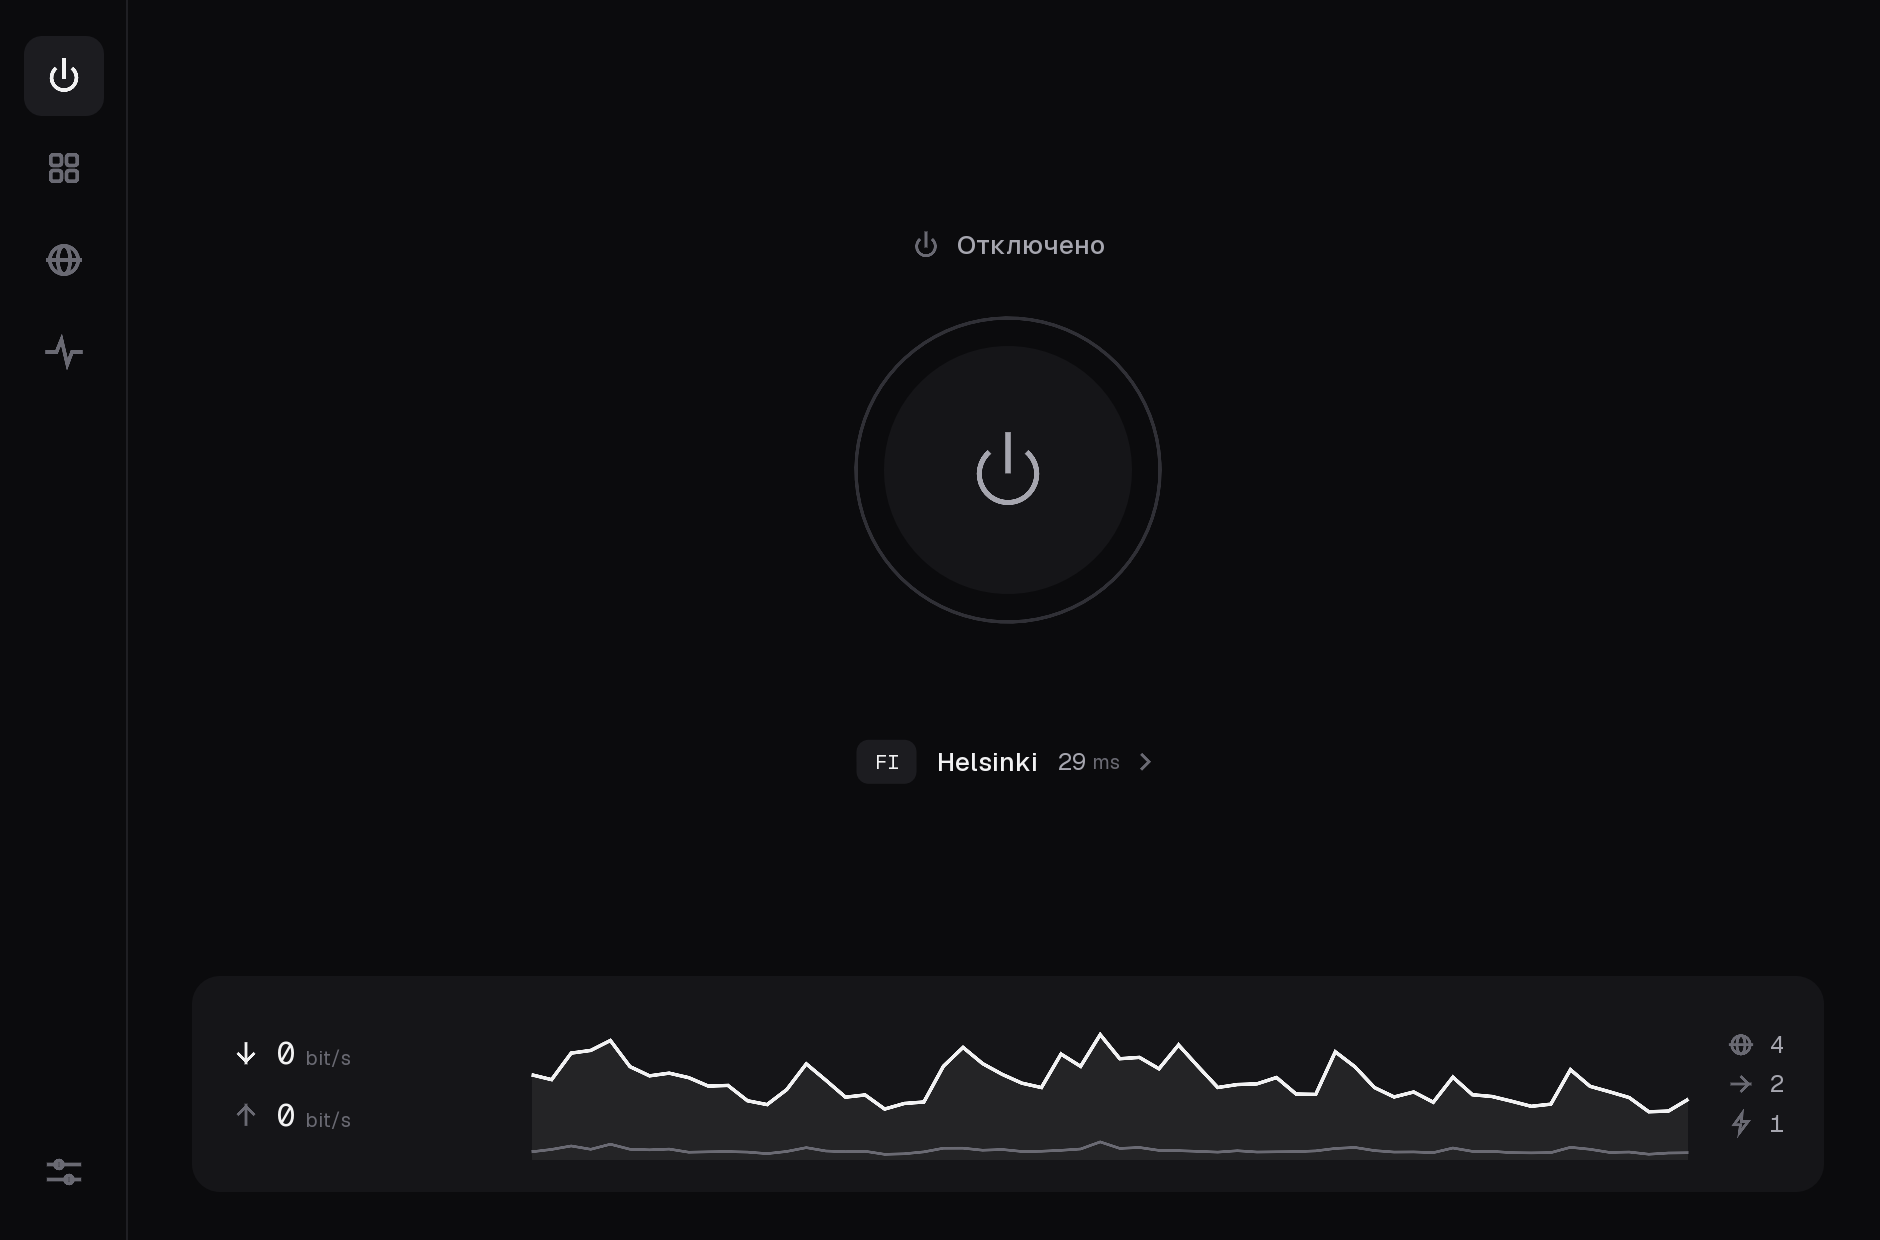
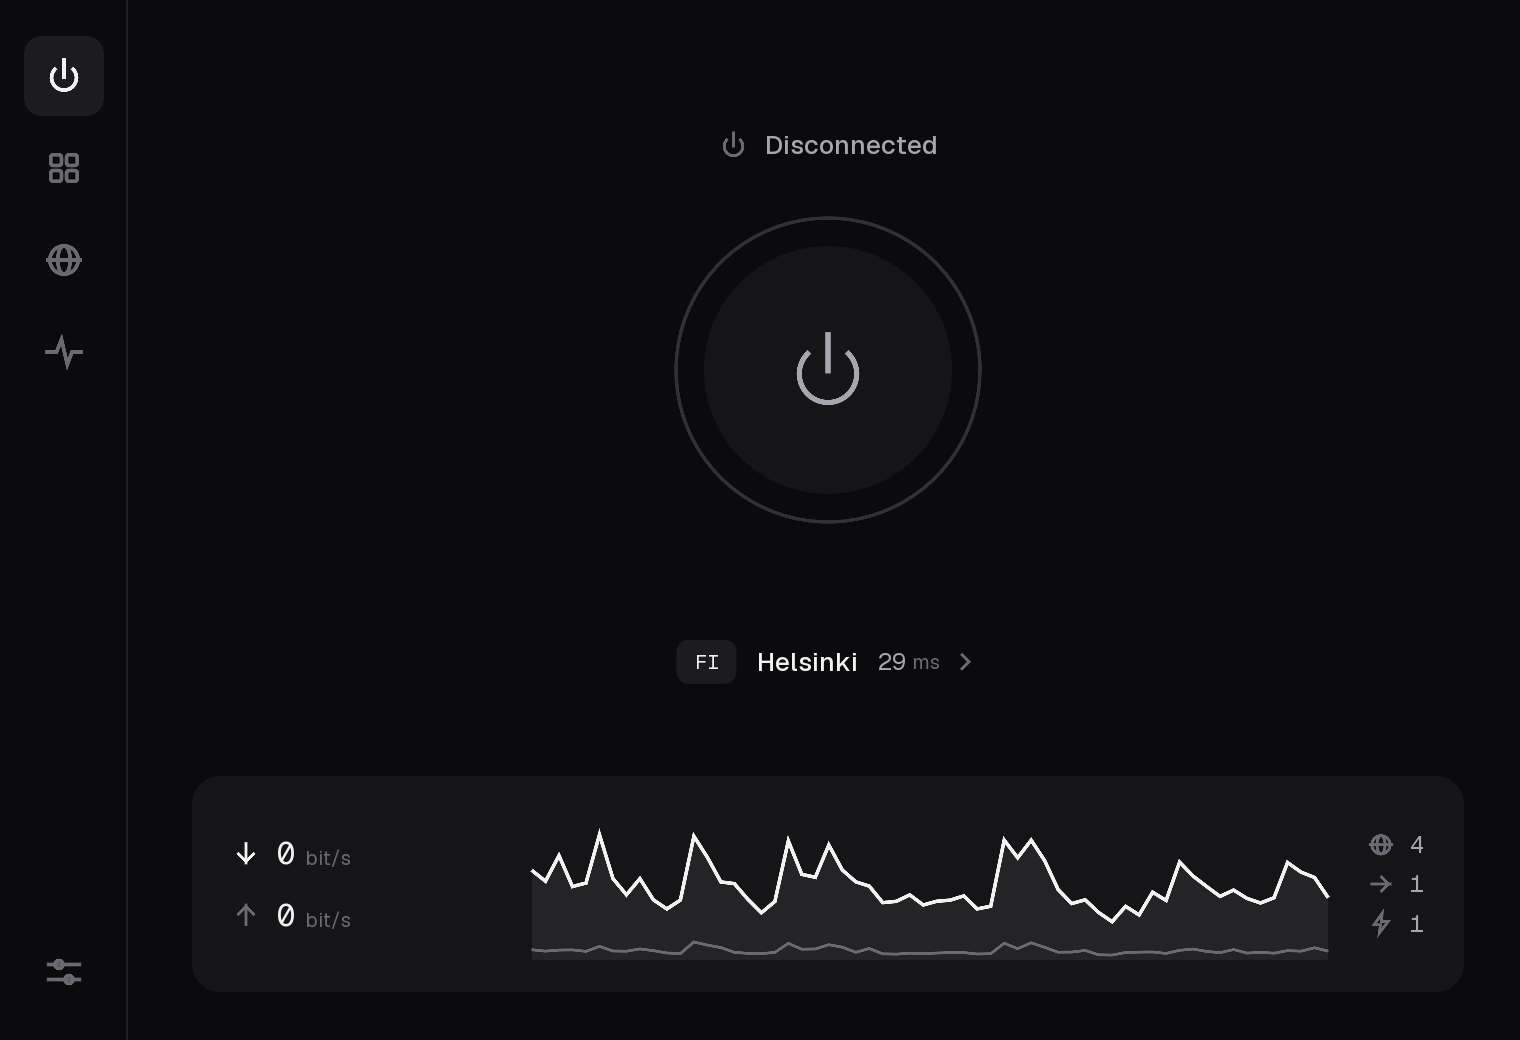
Add a README, and English screenshots on sample data

diff --git a/README.md b/README.md
@@ -1,0 +1,361 @@
+<h1 align="center">BLACKWALL</h1>
+
+<p align="center">
+  A small, fast VPN client that routes every application its own way.<br>
+  Written in Zig. No Electron, no bundled proxy core, no telemetry.
+</p>
+
+<p align="center">
+  <img alt="License: MIT" src="https://img.shields.io/badge/license-MIT-blue">
+  <img alt="Zig 0.17.1" src="https://img.shields.io/badge/zig-0.17.1-f7a41d">
+  <img alt="Platforms" src="https://img.shields.io/badge/platforms-macOS%20%C2%B7%20Windows%20%C2%B7%20Linux-lightgrey">
+  <img alt="Languages" src="https://img.shields.io/badge/interface-English%20%C2%B7%20%D0%A0%D1%83%D1%81%D1%81%D0%BA%D0%B8%D0%B9%20%C2%B7%20%E4%B8%AD%E6%96%87-lightgrey">
+</p>
+
+<p align="center">
+  <img src="docs/screens/2-connect-on.png" width="760" alt="BLACKWALL connected: state, server, live traffic">
+</p>
+
+BLACKWALL is a client for the servers you already have: paste a subscription link or a
+single key, and it carries your traffic over VLESS, Trojan, Shadowsocks or VMess. What
+sets it apart is where the decisions are made. Every application gets its own route
+(through the VPN, through one particular server, straight to the internet, or nowhere),
+and the protection around those routes is built so that an application you sent through
+the VPN never quietly falls back to your real address.
+
+It is one codebase with its own data plane: the TCP/IP stack, the TLS 1.3 and REALITY
+handshakes, HTTP/2 and every protocol are implemented in this repository, in Zig. A
+release is a single file of 4 to 11 MB.
+
+> **You bring the servers.** BLACKWALL is a client. It does not sell, provide or
+> recommend VPN servers, and it has no account, no backend and no analytics.
+
+## Contents
+
+- [Features](#features)
+- [Platform support](#platform-support)
+- [Protocols and transports](#protocols-and-transports)
+- [Install](#install)
+- [Getting started](#getting-started)
+- [Routes](#routes)
+- [Protection](#protection)
+- [How it works](#how-it-works)
+- [Security model](#security-model)
+- [Build from source](#build-from-source)
+- [Testing](#testing)
+- [Project layout](#project-layout)
+- [Known limitations](#known-limitations)
+- [Roadmap](#roadmap)
+- [Contributing](#contributing)
+- [License](#license)
+
+## Features
+
+**Routing**
+
+- A route per application: VPN, a pinned server, direct, or blocked. All of them work at
+  the same time.
+- Programs an application starts follow its rule: a shell, `git` or `curl` launched by an
+  app is routed like that app unless it has a rule of its own.
+- A default route for everything without a rule.
+- Live traffic per application, and a history graph.
+
+**Servers**
+
+- Subscriptions by link, or keys pasted one by one. Several subscriptions at once.
+- Latency for every server; "Fastest" picks one for you.
+- Reserve servers: star the ones you trust. When the server in use stops carrying
+  traffic, BLACKWALL reconnects to it once, then moves to the starred ones, fastest first,
+  checking each with a real request. It moves back when the main server answers again.
+
+**Protection**
+
+- Kill switch, selective or strict.
+- Protection after Disconnect: applications with a VPN rule of their own stay offline
+  while the VPN is off.
+- Hold from boot (macOS): traffic is held from the moment the system starts until the
+  VPN is up, so applications that launch at login cannot get out first.
+- Detection of another VPN that stands in the way, with a way to stop it.
+
+**Everyday use**
+
+- A background service carries the traffic. Close the window and nothing changes.
+- A menu bar / tray item with the state, the server, the current speed and the two or
+  three actions you need.
+- Signed automatic updates. Settings, subscriptions and rules are kept.
+- English, Russian and Chinese.
+
+<p align="center">
+  <img src="docs/screens/4-apps-route-menu.png" width="49%" alt="Per-application routes">
+  <img src="docs/screens/5-servers.png" width="49%" alt="Servers with latency and reserve stars">
+</p>
+
+## Platform support
+
+| | macOS (Apple Silicon) | Windows (x64) | Linux (x64) |
+|---|---|---|---|
+| Capture all traffic (TUN) | Yes | Not yet | Service only, manual setup |
+| Routes per application | Yes | Not yet | Not yet |
+| Local SOCKS5 proxy (`127.0.0.1:1080`) | Yes | Yes | Yes |
+| Kill switch, protection after Disconnect, hold from boot | Yes | No | No |
+| Menu bar / tray item | Yes | Built, untested | Built, untested |
+| Automatic updates | Yes | Yes | Yes |
+
+macOS is the platform used and tested every day. The Windows and Linux builds pass the
+automatic tests on their own systems in CI, and have not been through real use yet.
+Android is planned.
+
+## Protocols and transports
+
+| Protocol | Security | Transports |
+|---|---|---|
+| VLESS | REALITY (with Vision), TLS, none | TCP, WebSocket, HTTPUpgrade, gRPC, XHTTP |
+| Trojan | TLS, REALITY | TCP, WebSocket, HTTPUpgrade, gRPC, XHTTP |
+| VMess (AEAD) | TLS, REALITY, none | TCP, WebSocket, HTTPUpgrade, gRPC, XHTTP |
+| Shadowsocks | AEAD (AES-GCM, ChaCha20) and 2022 (BLAKE3) | TCP |
+
+Every combination above is checked against a real [Xray](https://github.com/XTLS/Xray-core)
+server: a download, an upload and a small request per link. Link formats understood:
+`vless://`, `trojan://`, `ss://`, `vmess://` (both the base64 JSON and the URL form), and
+Xray JSON subscriptions.
+
+The TLS ClientHello follows Chrome's, the WebSocket and HTTPUpgrade requests match Xray's
+byte for byte, and server certificates are always verified.
+
+## Install
+
+Download the file for your system from the [releases](../../releases) page. Each release
+comes in three languages; pick the one you read.
+
+| System | File |
+|---|---|
+| macOS (Apple Silicon) | `BLACKWALL-<version>-<lang>-macos-arm64.zip` |
+| Windows (x64) | `BLACKWALL-<version>-<lang>-windows-x86_64.exe` |
+| Linux (x64) | `BLACKWALL-<version>-<lang>-linux-x86_64.tar.gz` |
+
+The builds are not signed by Apple or Microsoft yet:
+
+- **macOS**: right-click the app, choose Open. The first connection in TUN mode asks for
+  the administrator password once, to install the network helper.
+- **Windows**: SmartScreen, More info, Run anyway.
+
+Every release file has a `.sig` next to it, an Ed25519 signature the updater checks
+before it installs anything. See [docs/updates.md](docs/updates.md).
+
+## Getting started
+
+1. Open **Servers**, press **+**, and paste a subscription link or a key.
+2. Go back and press the power button.
+3. Open **Apps** to give an application its own route.
+4. Star a few servers you trust. They become the reserve.
+
+Explanations of every option live in **Settings**. The main screens stay free of text on
+purpose.
+
+## Routes
+
+| Route | Where the application's traffic goes |
+|---|---|
+| Default | Wherever "Default route" in Settings says: the VPN or direct |
+| Auto | Through the VPN, on the main server (or its reserve) |
+| A server from the list | Through that server and no other. If it cannot be used, the application is blocked, never sent direct |
+| Direct | The normal internet, with your real address |
+| Block | No network |
+
+A route that goes through the VPN has exactly two fallbacks: another VPN server from the
+reserve, or no connection. There is no path from a VPN route to a direct connection.
+
+## Protection
+
+**Kill switch.** *Selective* stops the applications that are routed through the VPN when
+it drops; direct ones keep working. *Strict* stops everything except the connections to
+the VPN servers themselves, using the system firewall (pf).
+
+**Protection after Disconnect.** Turning the VPN off is not the same as lifting the
+protection. Applications with their own VPN rule, and blocked ones, stay offline while the
+VPN is off; everything else uses the normal internet.
+
+**Hold from boot.** With "Launch at login" on, the network helper captures all traffic as
+soon as the system has a network and holds it until the service takes over. If no
+service comes within two minutes of a login, it lets go, so a broken installation cannot
+leave the machine offline.
+
+**Reserve.** Recovery is driven by failures, not by polling: nothing runs while the server
+works. When connections start failing, the address is looked up again and one real request
+is sent through the same server. If that fails, the starred servers that accept a
+connection are tried fastest first, each with a real request.
+
+## How it works
+
+```mermaid
+flowchart LR
+    apps["Applications"] -->|all traffic| tun["utun device"]
+    subgraph service["blackwall-service (your user)"]
+        tun --> stack["TCP/IP stack<br>fake-IP DNS"]
+        stack --> who["Which application?"]
+        who --> route{"Route"}
+        route -->|VPN| out["VLESS / Trojan / VMess / Shadowsocks<br>TLS 1.3, REALITY, WS, gRPC, XHTTP"]
+        route -->|direct| direct["Physical interface"]
+        route -->|block| drop["Refused"]
+    end
+    out --> server["Your server"]
+    helper["blackwall-helper (root)<br>utun, routes, DNS, firewall"] -. hands over the utun .-> service
+    window["BLACKWALL window<br>and menu bar item"] <-->|JSON lines over a Unix socket| service
+```
+
+Three processes, each with one job:
+
+- **The window** shows the state and edits the configuration. It carries no traffic and
+  can be closed.
+- **The service** runs as your user and is the whole data plane: a TCP/IP stack in user
+  space that terminates every connection the system sends into the tunnel, finds the
+  application behind it, picks its route and carries it.
+- **The helper** (macOS) is a small root daemon that does only what needs root: it creates
+  the tunnel device, sets the routes and the DNS, holds the firewall rules of the strict
+  kill switch, and hands the device to the service. If the service dies, the helper keeps
+  the traffic captured instead of letting it leak.
+
+A few details worth knowing:
+
+- **Fake-IP DNS.** Name lookups are answered with addresses from `198.18.0.0/15`, so each
+  connection arrives with its domain name and the server resolves it. Your resolver does
+  not see where proxied applications go.
+- **Application identity.** A connection is matched to a process through the kernel's
+  socket tables, and the process to the outermost `.app` bundle that contains it. When a
+  process has no rule, the applications that started it are asked, nearest first.
+- **No external core.** There is no Xray, sing-box or OpenSSL inside. The protocol code
+  is a few thousand lines per protocol, allocates almost nothing per connection, and is
+  tested against the reference servers.
+
+## Security model
+
+- **Least privilege.** Only the helper runs as root, and it runs no shell and no command
+  the caller chooses. Every value it receives is validated before it reaches an `ioctl`,
+  a route message or a command line. It serves one user: the one who installed it.
+- **Stopping another VPN** is done only for a process whose identity (pid, start time,
+  executable) was re-checked at the moment of stopping, and never for a system process.
+- **Updates are signed.** The updater installs a file only when its Ed25519 signature
+  matches the public key built into the running app, and only when the unpacked app really
+  is the expected, newer version. The helper accepts a newer helper on the same terms, so
+  the administrator password is asked once per installation.
+- **Fail closed.** A VPN route whose server is gone, unknown or unsupported is blocked. A
+  connection whose application cannot be identified is refused while protected
+  applications are being held.
+- **Secrets stay local.** Subscription links and keys are stored in the configuration file
+  in your user folder and are never logged.
+
+Found a security problem? Please report it privately to the maintainers rather than in a
+public issue.
+
+## Build from source
+
+You need [Zig 0.17.1](https://ziglang.org/download/). Everything else is fetched by the
+build.
+
+```sh
+zig build                 # the app, the service and the tools, into zig-out/
+zig build run             # build and start the window
+zig build test            # all tests
+zig build package -Doptimize=ReleaseSafe -Dlang=en    # a release file in zig-out/package
+```
+
+| Option | Meaning |
+|---|---|
+| `-Dlang=en\|ru\|zh` | Interface language (one build per language; default `ru`) |
+| `-Dtarget=...` | Cross-compile, for example `x86_64-windows` or `x86_64-linux-gnu` |
+| `-Doptimize=ReleaseSafe` | Release build |
+| `-Dupdate-repo=owner/name` `-Dupdate-pubkey=<base64>` | Build with the updater (release CI does this) |
+
+On macOS, `zig build package` produces `zig-out/BLACKWALL.app` with the service and the
+helper inside, ad-hoc signed.
+
+Releases are built by GitHub Actions from a `v<version>` tag; see
+[docs/updates.md](docs/updates.md) for the signing key and the release steps.
+
+## Testing
+
+```sh
+zig build test
+```
+
+The suite covers the protocol code against recorded and scripted peers, the TCP/IP stack,
+the routing table, the recovery logic and the release tooling, and runs on macOS, Linux and
+Windows in CI.
+
+Two tools help when working on the data plane:
+
+```sh
+# a local SOCKS5 proxy through one server, with counters
+zig-out/bin/blackwall-proxy 1080 'vless://...'
+
+# does this server accept a connection, and does a real request get through?
+zig-out/bin/blackwall-proxy check 'vless://...'
+```
+
+To render every screen to PNG without touching your configuration (sample data):
+
+```sh
+HOME=$(mktemp -d) BLACKWALL_SHOTS=out zig-out/bin/blackwall
+```
+
+## Project layout
+
+```
+src/
+  main.zig, app.zig        the window: frame loop and application state
+  link.zig                 the window's side of the background service
+  ui/                      screens, widgets, theme
+  platform/                autostart, tray, detection of other VPNs
+  core/                    everything that is not the window
+    proxy.zig              outbounds, dialing, one flow from end to end
+    tunnel.zig             the TUN data plane: flows, routes, UDP
+    ipstack/               TCP/IP stack, packets, DNS and fake addresses
+    tls13.zig, vision.zig  TLS 1.3, REALITY, Vision
+    ws.zig, httpupgrade.zig, grpc.zig, xhttp.zig, h2.zig, hpack.zig
+    trojan.zig, vmess.zig, shadowsocks.zig, xudp.zig
+    failover.zig           the main server and its reserve
+    sublink.zig            subscriptions and links
+    update.zig             the updater
+  service/                 the background service
+  helper/                  the root helper (macOS)
+  tools/                   release signing, headless proxy
+docs/                      updates and release notes
+```
+
+## Known limitations
+
+- Capturing all traffic and per-application routes work on macOS only for now.
+- UDP is carried over VLESS only; over Trojan, VMess and Shadowsocks it is dropped.
+  QUIC from proxied applications is dropped on purpose so that browsers fall back to TCP.
+- XHTTP supports the stream-one mode.
+- "DPI bypass" is listed as a route but not implemented; it behaves like Direct.
+- A changed route applies to new connections; open ones finish on the route they started
+  with.
+- DNS queries other than address lookups are forwarded to the network's own resolver.
+- The apps are not notarized or signed by Apple or Microsoft.
+
+## Roadmap
+
+- Capture and per-application routes on Windows and Linux; Android.
+- Hysteria2, TUIC and WireGuard.
+- UDP over the remaining protocols.
+- A local DPI bypass route.
+- Rules by domain in addition to rules by application.
+
+## Contributing
+
+Issues and pull requests are welcome. A few things keep the project the size it is:
+
+- Prefer the lighter design even when it is harder to write. There is a budget: the
+  package stays small and the service stays cheap when idle.
+- A new protocol or transport comes with tests against the reference server.
+- The main screens carry almost no text. Explanations go into Settings.
+- `zig build test` passes on all three systems before a change lands.
+
+## License
+
+[MIT](LICENSE).
+
+BLACKWALL is built with [Zig](https://ziglang.org), [DVUI](https://github.com/david-vanderson/dvui)
+and [SDL](https://libsdl.org), and is tested for compatibility against
+[Xray](https://github.com/XTLS/Xray-core).
